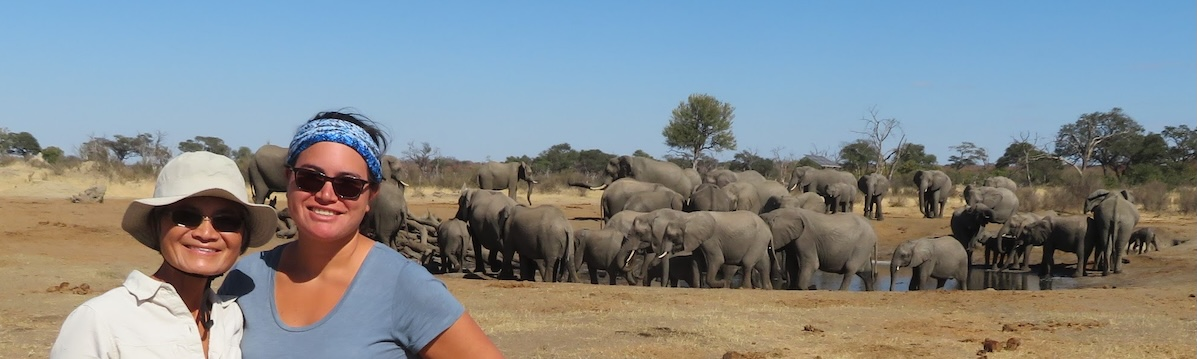
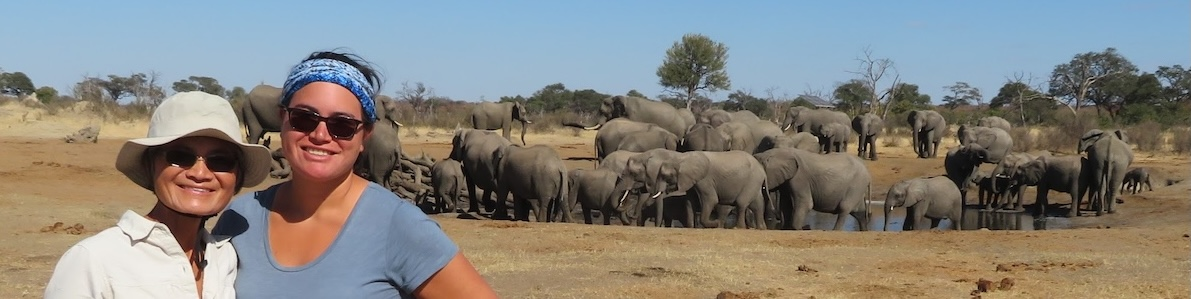
added homepage photo

diff --git a/home.html b/home.html
@@ -10,6 +10,31 @@
   </div>
   <br><br>
 
+  <br><br>
+<div class="container my-5">
+  <div class="row justify-content-center">
+    <div class="col-md-8">
+      <div class="card shadow-lg border-0">
+        <div class="row g-0 align-items-center">
+          <div class="col-md-5">
+            <img src="Images/MMandReganSantoriniHike.jpeg" class="img-fluid rounded-start">
+          </div>
+          <div class="col-md-7">
+            <div class="card-body text-center">
+              <h2 class="card-title">Meet Mei-Mei and Regan Kirks</h2>
+              <p class="card-text">
+                We’re a mother-daughter team with a passion for adventure and a love of exploring the world together.
+                From African safaris to European hiking treks, we help you plan trips that create lifelong memories.
+              </p>
+              <a href="about.html" class="btn btn-outline-primary">More about us</a>
+            </div>
+          </div>
+        </div>
+      </div>
+    </div>
+  </div>
+</div>
+
     <h2 class="text-center mb-4">Featured Special</h2>
     <div class="row justify-content-center">
       <div class="col-md-6">

diff --git a/Travel/hikingadventures.html b/Travel/hikingadventures.html
@@ -60,20 +60,19 @@
 
   <br />
 
-  <p>
+  <p class="intro-text">
+    Do you like the thrill of adventure? We certainly do! The Kirk girls have
+    made it their mission to hike and explore the most beautiful places in the
+    world.
+  </p>
+
+    <p class="text-align">
     <a
       href="mailto:meimei.kirk@fora.travel?subject=Tell%20me%20more%20about%20active%20adventures!"
       class="btn btn-primary"
     >
       Tell Me More About Active Adventures
     </a>
-  </p>
-
-  <p class="intro-text">
-    Do you like the thrill of adventure? We certainly do! The Kirk girls have
-    made it their mission to hike and explore the most beautiful places in the
-    world. Although there's still so much more to discover, some of our favorite
-    adventure locales include:
   </p>
 
   <div class="travel-section">

diff --git a/Travel/whales.html b/Travel/whales.html
@@ -16,6 +16,15 @@
     Few sights are as breathtaking as an enormous humpback whale heaving itself out of the ocean as it breaches. 
   </p>
 
+    <p class="text-center">
+    <a
+      href="mailto:meimei.kirk@fora.travel?subject=Tell%20me%20more%20about%20whale%20adventures"
+      class="btn btn-primary"
+    >
+      Tell me more about adventures with whales!
+    </a>
+  </p>
+
   <div class="travel-section">
       <div class="gallery">
         <div class="row g-3 justify-content-center">
@@ -58,13 +67,4 @@
         </div>
       </div>
     </div>
-  
-  <p class="text-center">
-    <a
-      href="mailto:meimei.kirk@fora.travel?subject=Tell%20me%20more%20about%20whale%20adventures"
-      class="btn btn-primary"
-    >
-      Tell me more about adventures with whales!
-    </a>
-  </p>
 </div>

diff --git a/Travel/theater.html b/Travel/theater.html
@@ -60,10 +60,12 @@
     </div>
   </div>
 
-        <a
-        href="mailto:meimei.kirk@fora.travel?subject=Tell%20me%20more%20about%20theater%20trips!"
-        class="btn btn-primary"
-      >
-        I am interested in going on a theater trip
-      </a>
+  <p class="text-align">
+    <a
+      href="mailto:meimei.kirk@fora.travel?subject=Tell%20me%20more%20about%20theater%20trips!"
+      class="btn btn-primary"
+    >
+      I am interested in going on a theater trip
+    </a>
+  </p>
 </div>
